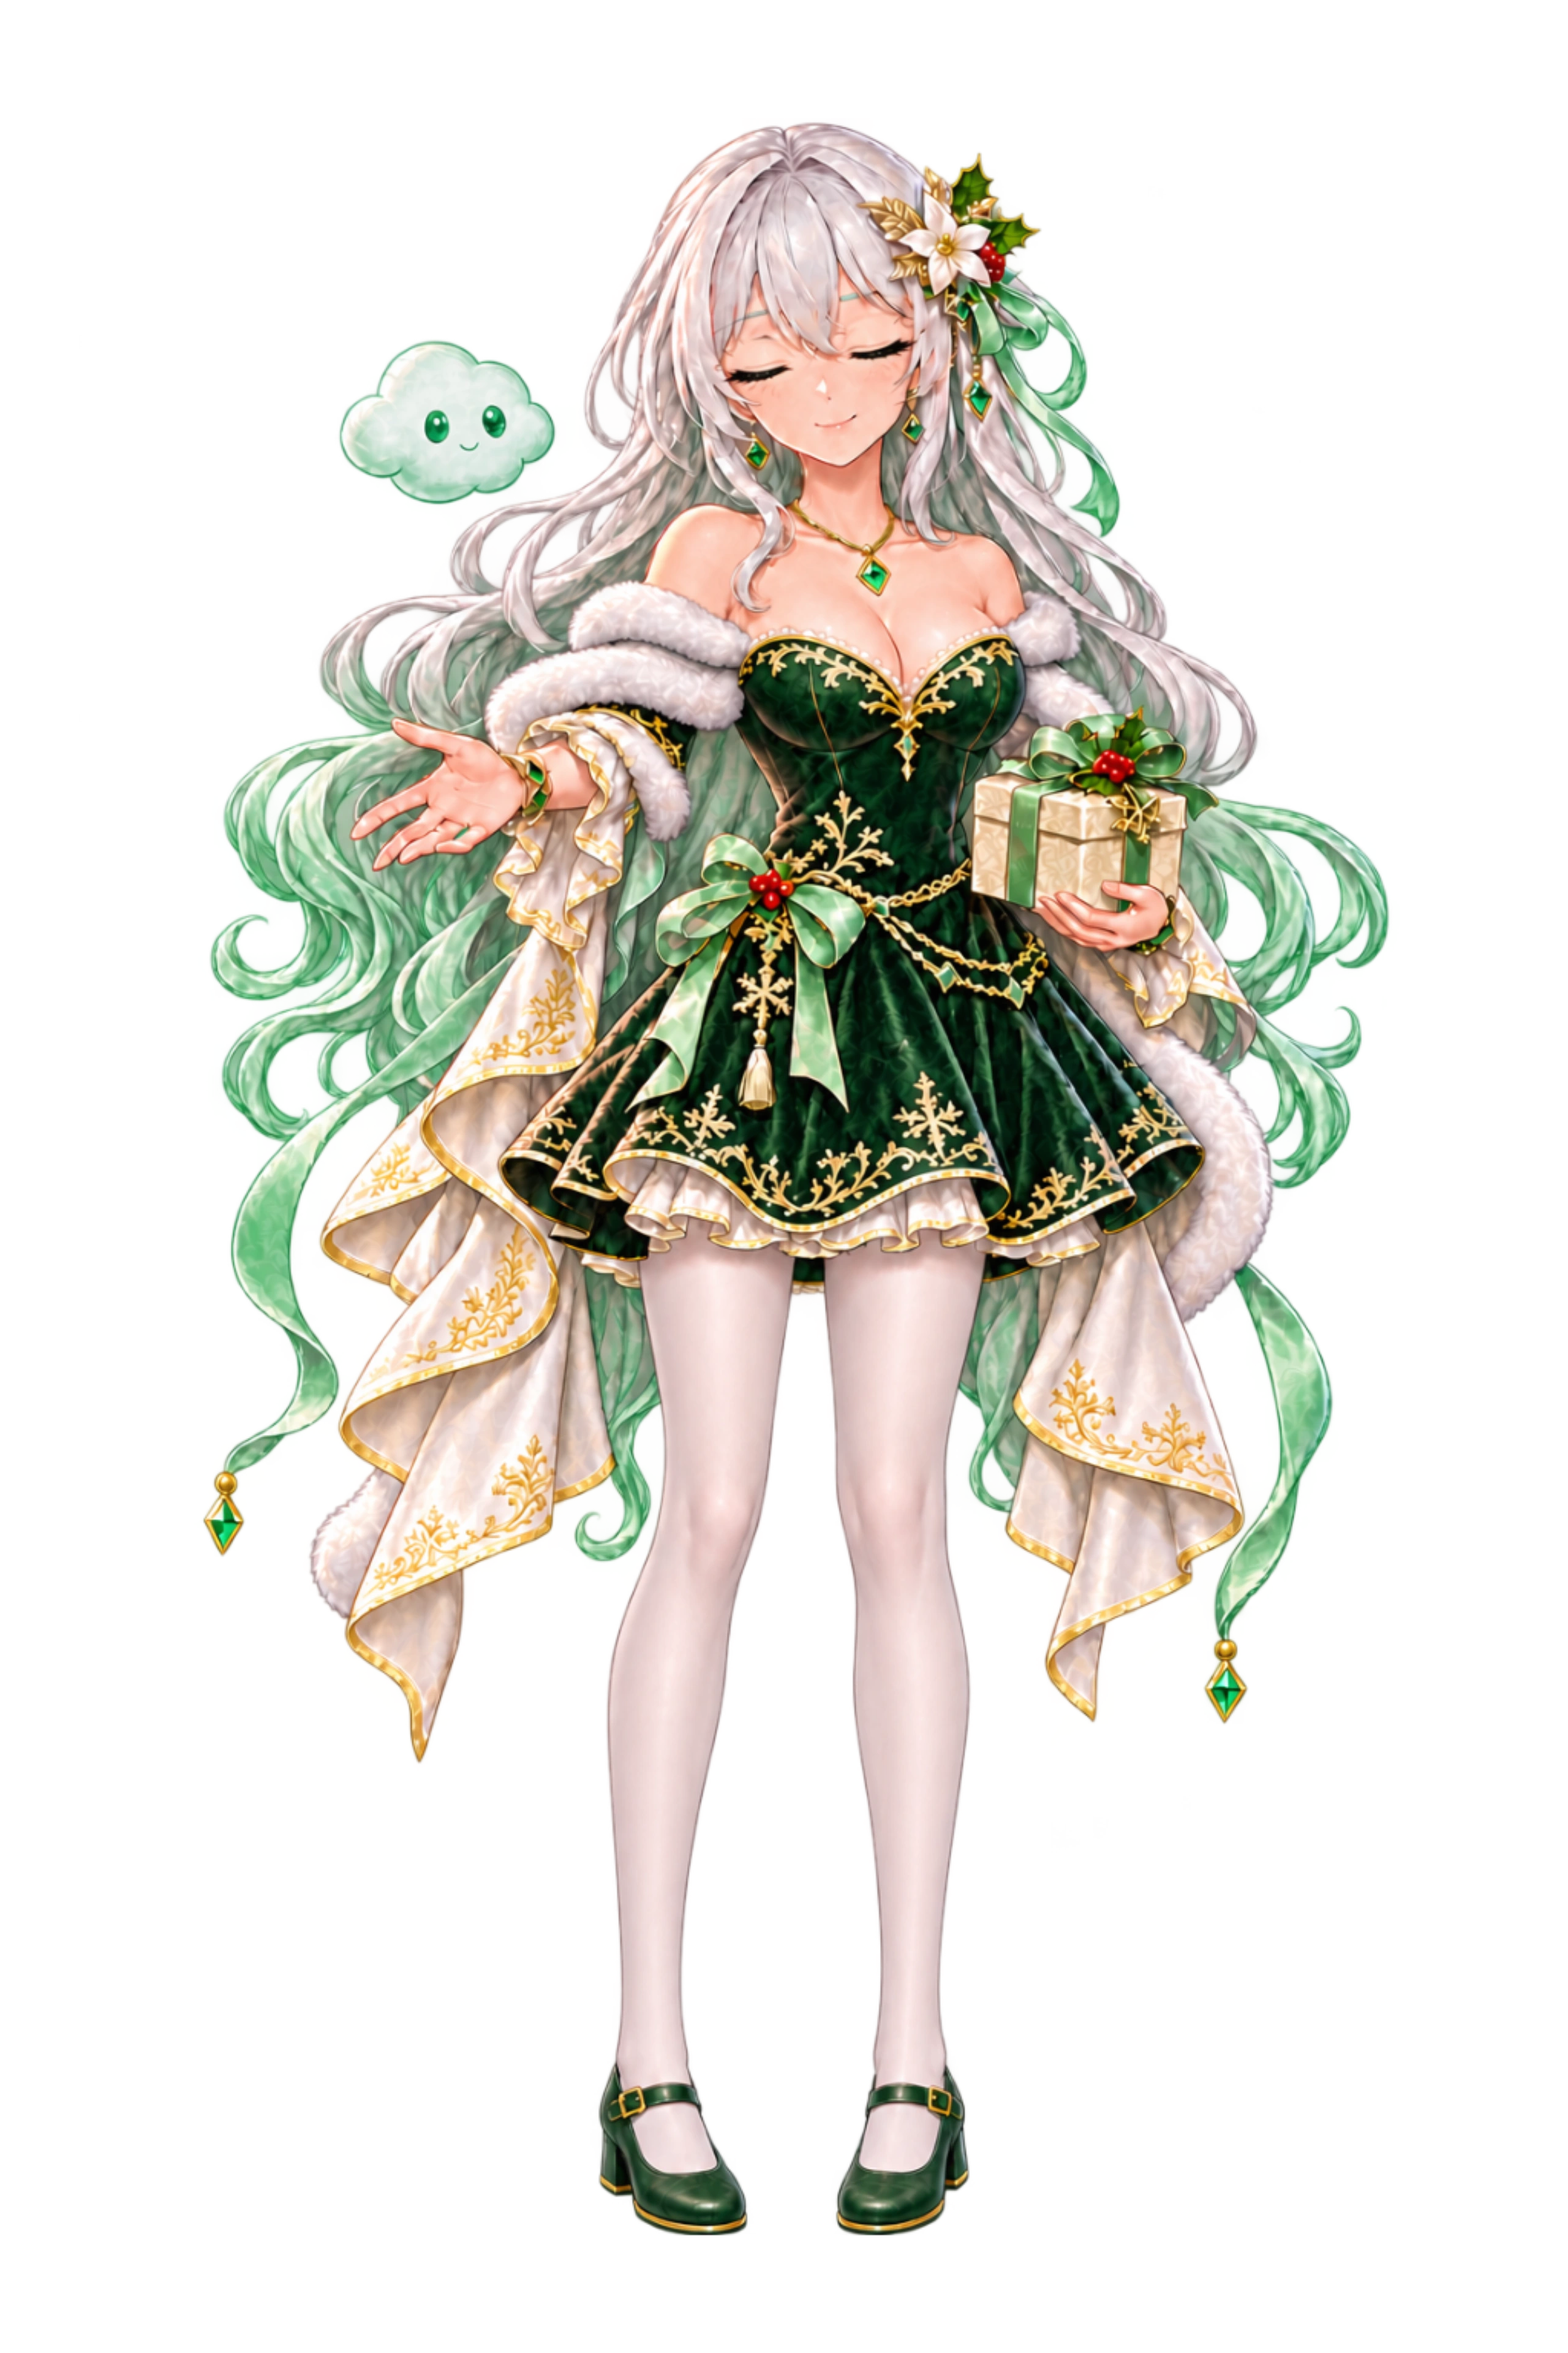
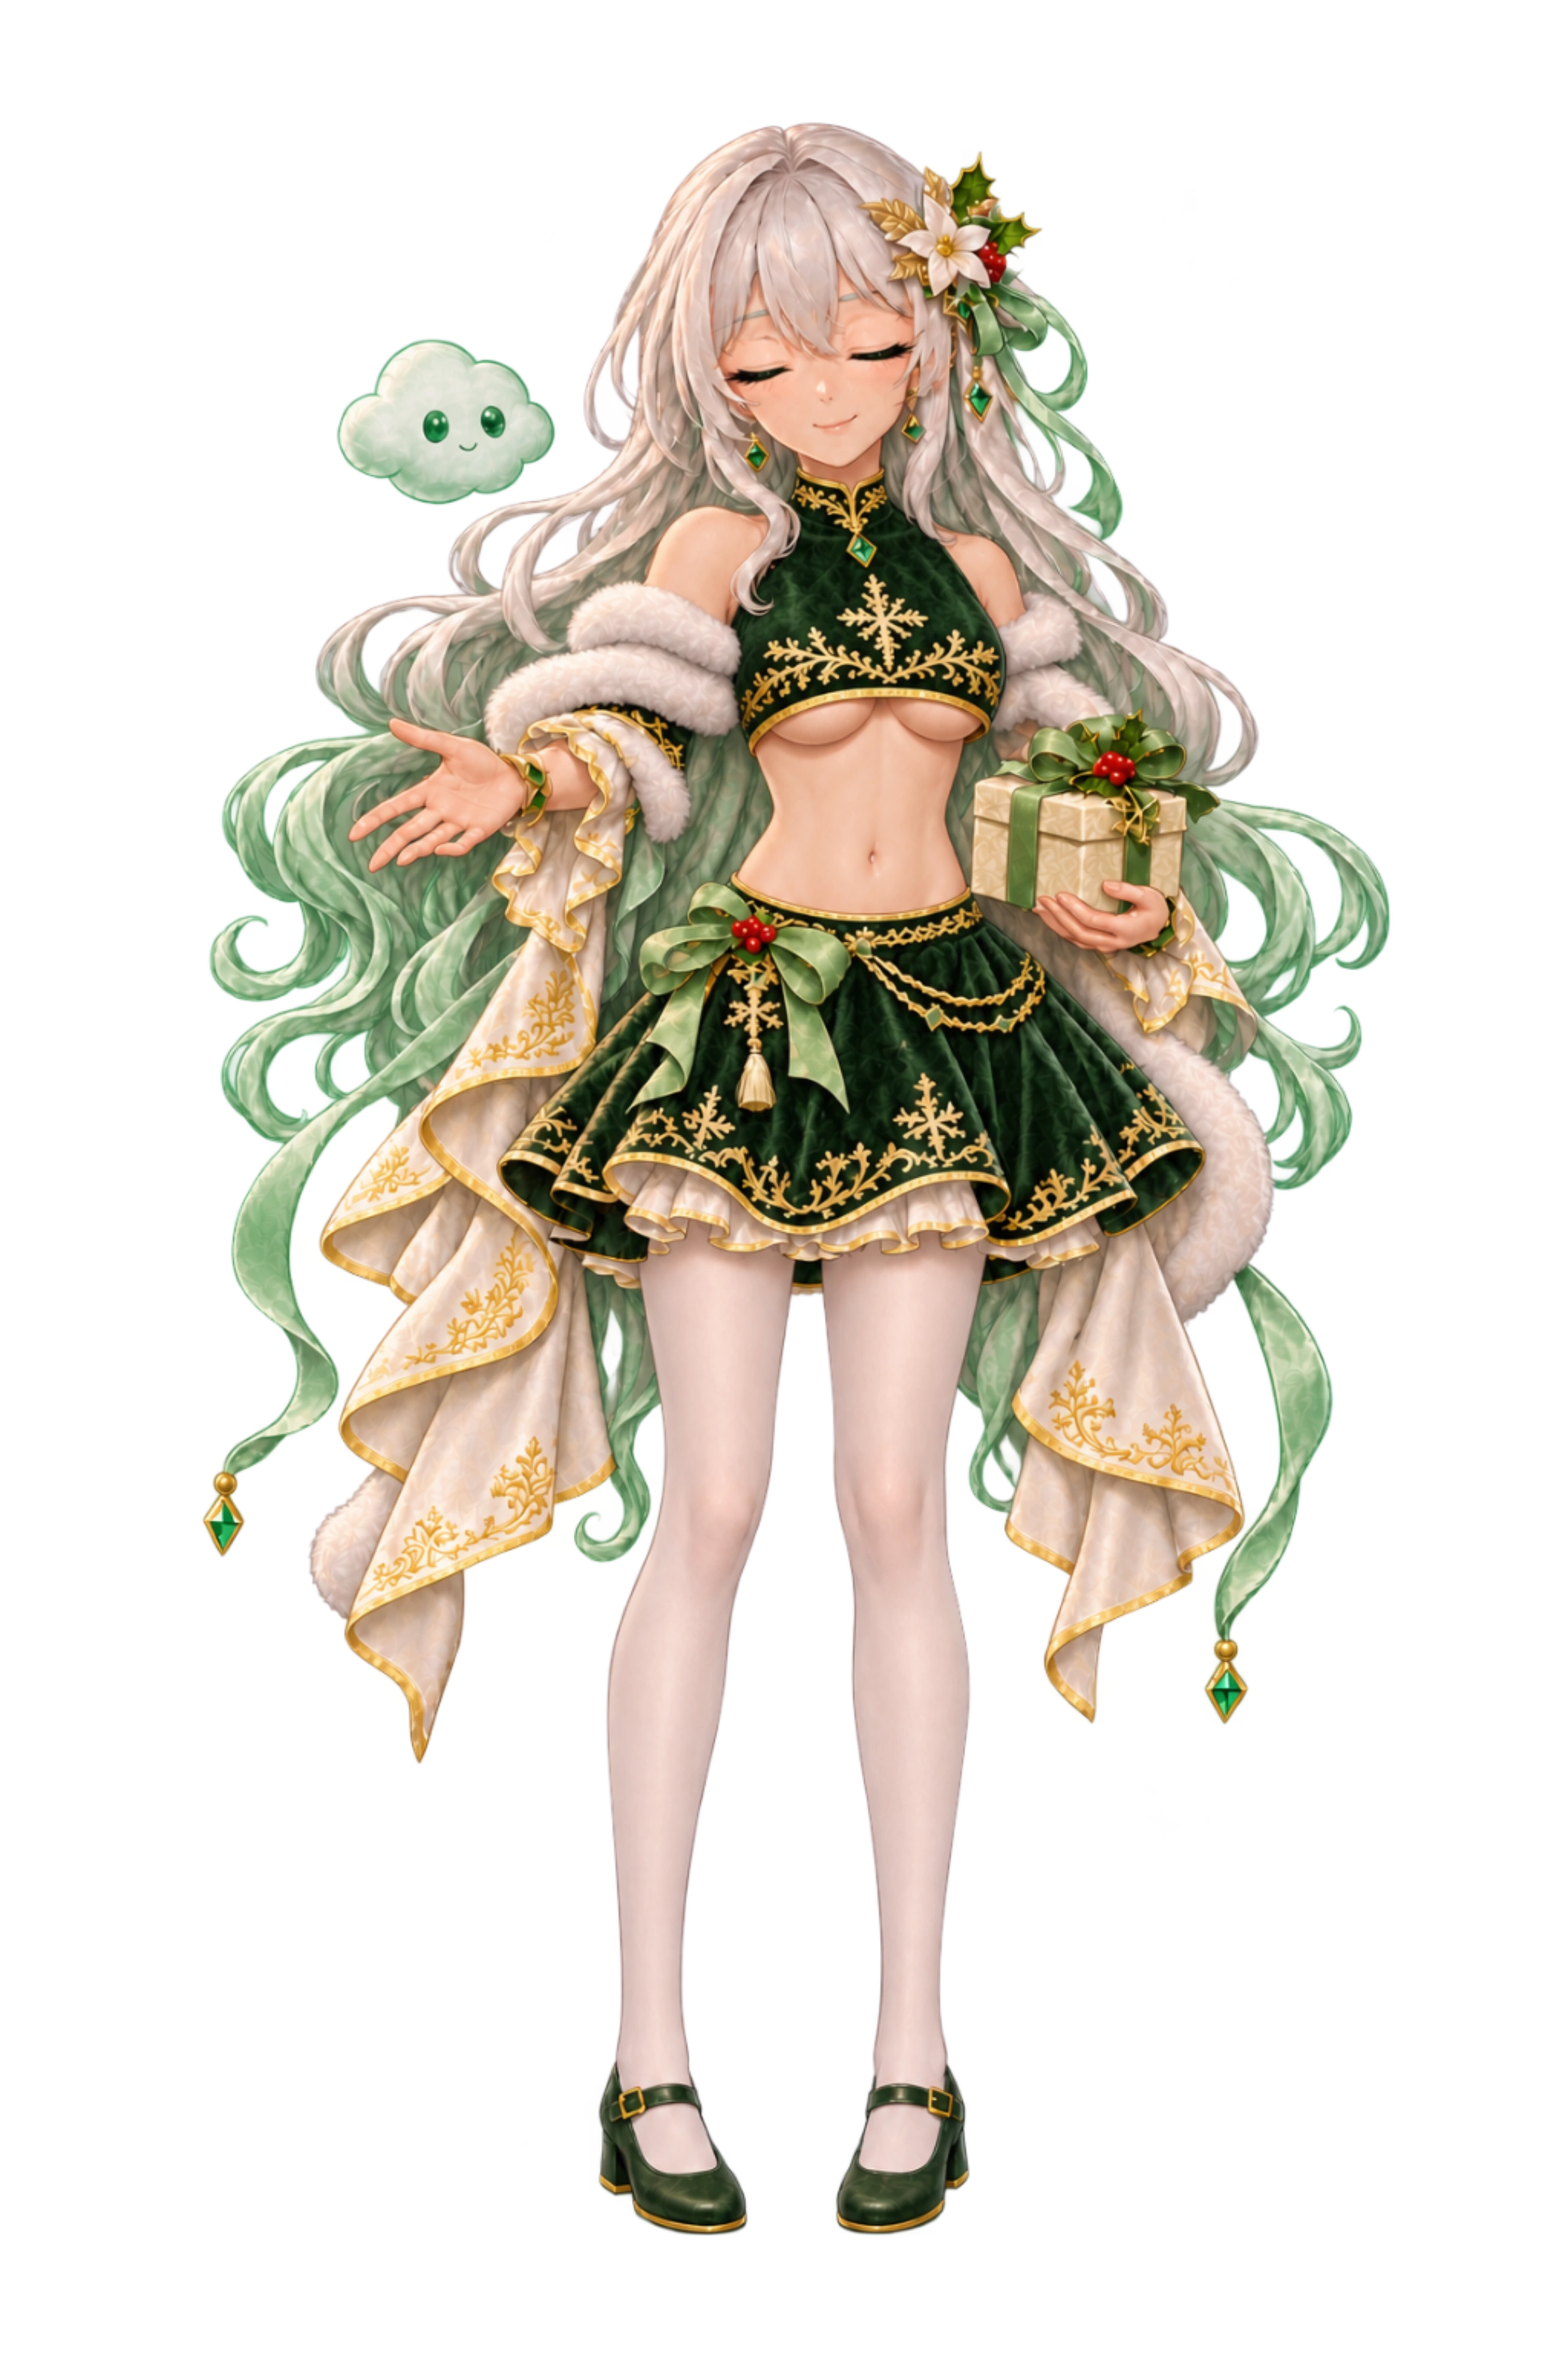
fix(gacha): refine Christmas ChatGPT outfit and materials

diff --git a/web/public/assets/gacha/NOTICE.md b/web/public/assets/gacha/NOTICE.md
@@ -6,7 +6,7 @@ High-resolution WebP derivatives retain the established compositions and use ima
 
 All cards now have retained background and foreground inputs. Forty ordinary card foregrounds, twenty character-free theme backgrounds, and the registered foregrounds and plates for group illustrations and covers were derived from the established artwork. `composition.json` records source-over composition and retained rare-card layers. Native generated portraits are 1024×1536; native landscape dimensions are recorded per theme below. Larger derivatives are resampled from these inputs and do not add native detail.
 
-A Date in the Snow contains five adult characters in non-explicit Christmas attire, with varied standing and seated poses. Each native 1024 × 1536 transparent portrait is inset to preserve motion margins; registered closed-eye edits contribute only eye pixels. ChatGPT and DeepSeek wear white stockings, GLM wears black stockings without glasses, and Claude and Gemini retain bare legs. ChatGPT stands with both shoes grounded; GLM offers a gift with both hands while Gemini holds a raised star ornament. DeepSeek is redrawn with a lively expression, a whale-themed navy and ivory dress, layered embroidered panels and a snow globe; her adult proportions and identity refer to her established Wandering Free portrait. Her new face, hand contacts, footwear, hair, cloth and left-facing tail use freshly registered motion regions. The native 1536 × 1024 drawing-room background keeps falling snow outside its windows. The five characters gather closely around Claude's chair; separate group and cover compositions retain foreground and background layers. Standard cards are 1024 × 1536, thumbnails 320 × 480 and landscapes 1672 × 941; 2560 × 3840 and 3840 × 2160 variants use high-quality Canvas2D resampling. Localized breathing, hair, fabric and companion movement preserve hands, feet, props and the chair. This theme adds no site appearance.
+A Date in the Snow contains five adult characters in non-explicit Christmas attire, with varied standing and seated poses. Each native 1024 × 1536 transparent portrait is inset to preserve motion margins; registered closed-eye edits contribute only eye pixels. ChatGPT and DeepSeek wear white stockings, GLM wears black stockings without glasses, and Claude and Gemini retain bare legs. ChatGPT stands with both shoes grounded and wears a green high-neck top with a separate skirt. Her skin, hands and accessories use softer material shading; the revised RGB is registered to the approved silhouette to preserve clean transparent edges. GLM offers a gift with both hands while Gemini holds a raised star ornament. DeepSeek is redrawn with a lively expression, a whale-themed navy and ivory dress, layered embroidered panels and a snow globe; her adult proportions and identity refer to her established Wandering Free portrait. Her new face, hand contacts, footwear, hair, cloth and left-facing tail use freshly registered motion regions. The native 1536 × 1024 drawing-room background keeps falling snow outside its windows. The five characters gather closely around Claude's chair; separate group and cover compositions retain foreground and background layers. Standard cards are 1024 × 1536, thumbnails 320 × 480 and landscapes 1672 × 941; 2560 × 3840 and 3840 × 2160 variants use high-quality Canvas2D resampling. Localized breathing, hair, fabric and companion movement preserve hands, feet, props and the chair. This theme adds no site appearance.
 
 Seven ordinary foregrounds retain generative corrections of their established portraits: `a-chatgpt` pours into a cup on a table; `c-deepseek` touches a visible puddle; `d-chatgpt` supports her saucer; `e-claude` and `e-glm` retain their tables; and `f-chatgpt` and `f-claude` retain their seat and trunk. Their character designs, theme backgrounds and composition registration are preserved. Each revised 1024 × 1536 transparent source supplies its standard card, 256 × 384 thumbnail, foreground and 2560 × 3840 resampled derivatives. Independent group illustrations and covers retain their own compositions.
 
